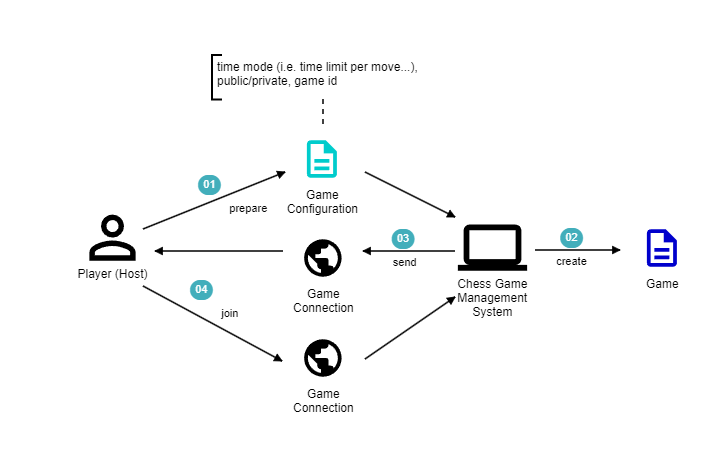
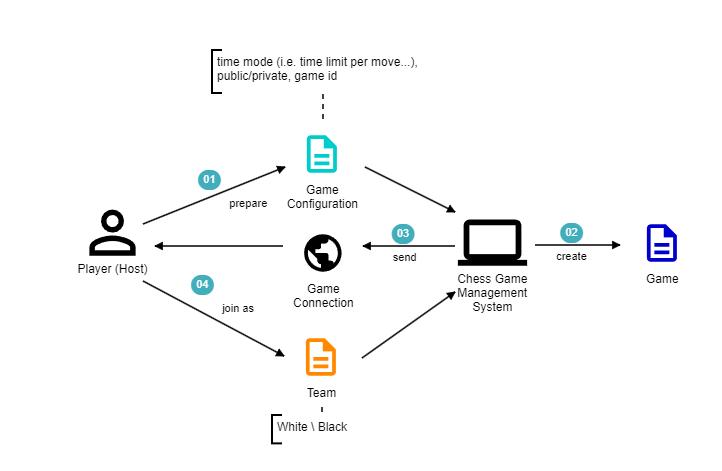
docs: add team to ubiquitous language in the domain analysis chapter

Changed region(s): [[0.0914, 0.2721, 0.9446, 0.9676], [0.2742, 0.121, 0.5789, 0.2117], [0.2742, 0.0907, 0.3047, 0.121]]

diff --git a/docs/1-domain-analysis/index.md b/docs/1-domain-analysis/index.md
@@ -59,7 +59,8 @@ Dopo aver ricevuto la configurazione, il sistema crea una partita di conseguenza
 Quindi, genera un `URL` attraverso il quale un qualsiasi giocatore può unirsi alla
 partita, inoltrandolo all'host.
 
-Infine, l'host partecipa alla partita connettendosi all'URL ricevuto.
+Infine, l'host partecipa alla partita connettendosi all'URL ricevuto e inviando al sistema
+la `squadra` a cui vuole essere assegnato.
 
 ![Create game story](/docs/resources/images/domain-storytelling/create-game.png)
 
@@ -75,7 +76,8 @@ giocatore assume il ruolo di `guest` della partita.
 Quindi, il sistema ricerca una partita pubblica tra quelle disponibili e genera un URL
 attraverso il quale un qualsiasi giocatore può unirsi a essa, inoltrandolo al guest.
 
-Infine, il guest partecipa alla partita connettendosi all'URL ricevuto.
+Infine, il guest partecipa alla partita connettendosi all'URL ricevuto e inviando al sistema
+la squadra a cui vuole essere assegnato.
 
 ![Join public game story](/docs/resources/images/domain-storytelling/join-public-game.png)
 
@@ -369,6 +371,7 @@ precedenti, precisando il loro effettivo significato e quindi producendo il segu
 | Scacco matto                                              | Checkmate                     | Situazione sulla scacchiera in cui si verifica sia lo scacco che lo stallo.                                                                                                                                                                                                                                                                                                 | Iponimo di situazione di una partita. |
 | Sistema di gestione delle partite                         | Game Management System        | Sistema che si occupa di gestire la creazione, l'esecuzione e la terminazione delle partite di scacchi.                                                                                                                                                                                                                                                                     |                                       |
 | Situazione di una partita                                 | Game Situation                | Particolare configurazione dei pezzi sulla scacchiera.                                                                                                                                                                                                                                                                                                                      | Meronimo di stato di una partita.     |
+| Squadra                                                   | Team                          | Colore che distingue i pezzi sulla scacchiera ed i loro proprietari.                                                                                                                                                                                                                                                                                                        |                                       |
 | Stallo                                                    | Stale                         | Situazione sulla scacchiera in cui il giocatore di turno non ha mosse disponibili.                                                                                                                                                                                                                                                                                          | Iponimo di situazione di una partita. |
 | Stato del gioco                                           | Game state                    | Insieme dei dati che descrivono univocamente una partita in un certo istante di tempo.                                                                                                                                                                                                                                                                                      |                                       |
 | Storico delle mosse                                       | Move history                  | Sequenza delle mosse eseguite dall'inizio di una partita dai due giocatori partecipanti.                                                                                                                                                                                                                                                                                    | Meronimo di stato di una partita.     |
